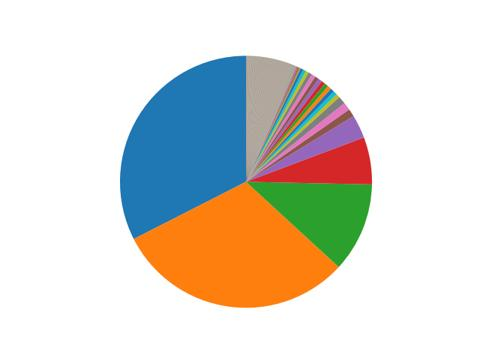
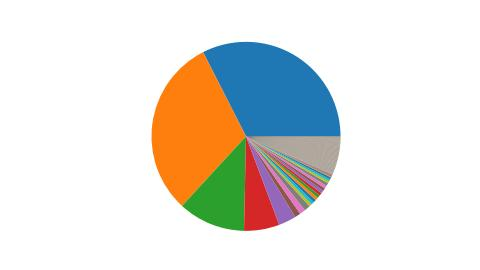
2025-08-09 12:02:05

Changed region(s): [[0.25, 0.1481, 0.7812, 0.8593]]

diff --git a/docs/content/solana/economy_genesis_analysis.md b/docs/content/solana/economy_genesis_analysis.md
@@ -66,9 +66,12 @@ import matplotlib.pyplot as plt
 import pathlib
 
 plt.style.use('seaborn-v0_8-darkgrid')
+plt.figure(figsize=(4.8, 2.7))
 
 genesis = json.loads(pathlib.Path('genesis.json').read_text())
 accounts = genesis['accounts']
+accounts.sort(key=lambda x: -x['account']['lamports'])
+
 x = [e['account']['lamports'] for e in accounts]
 
 plt.pie(x)
